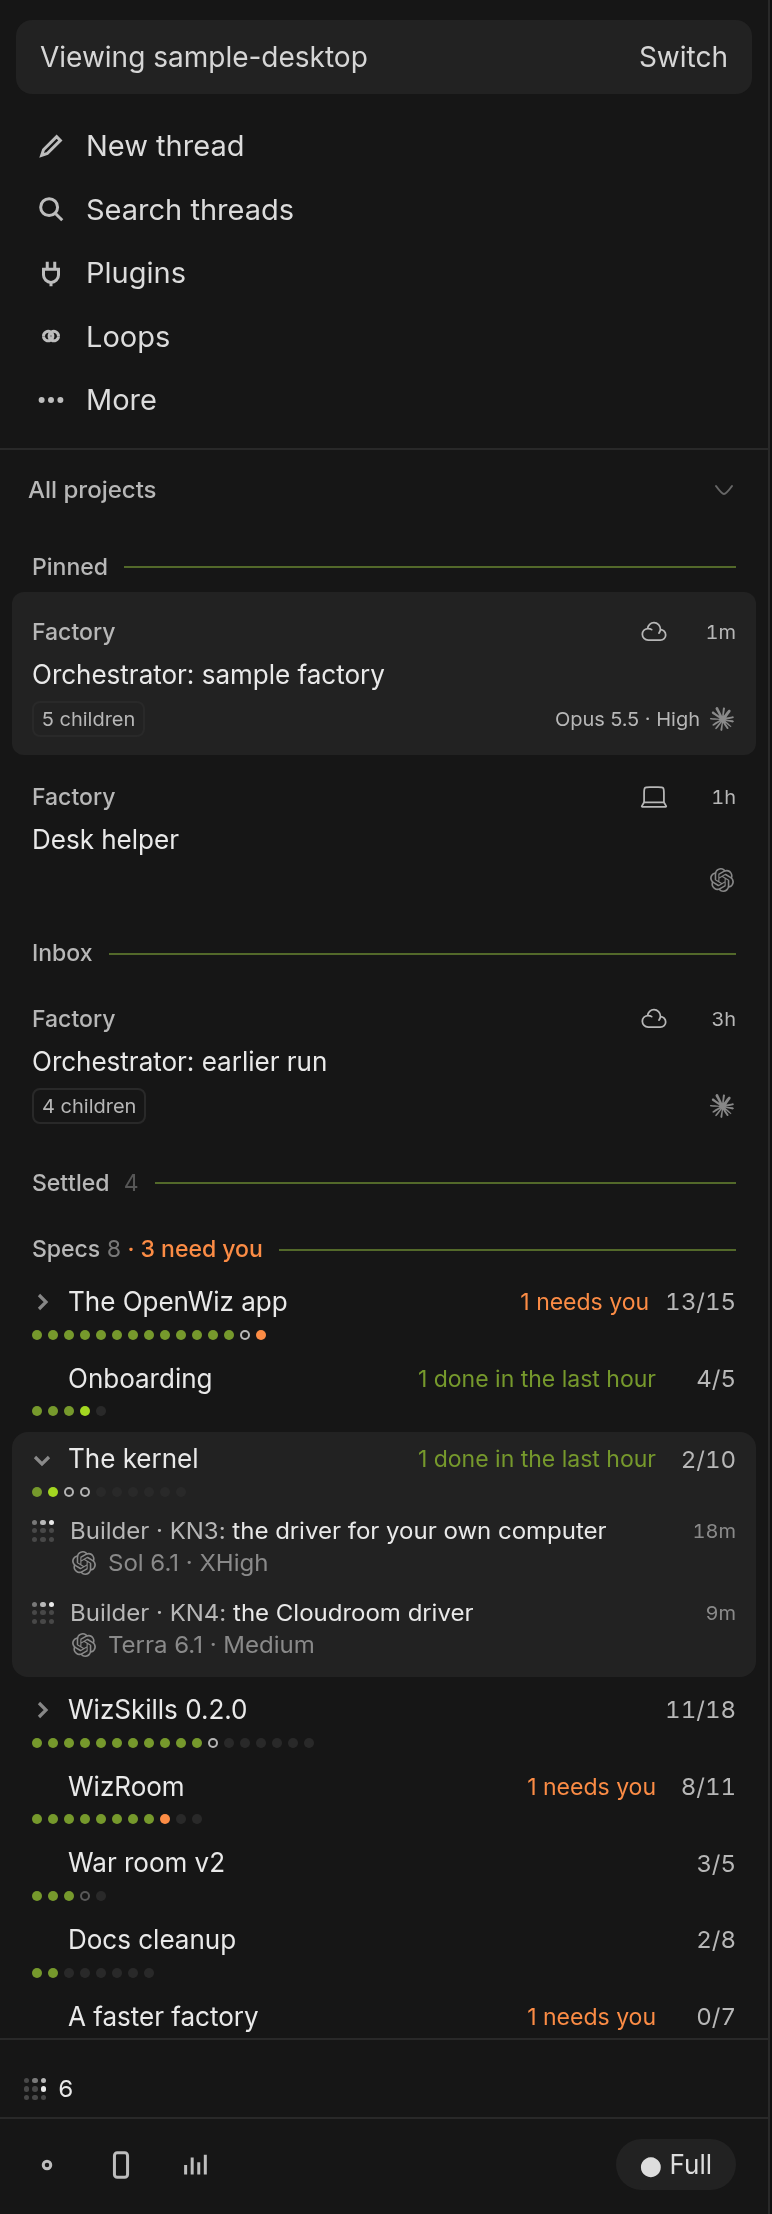
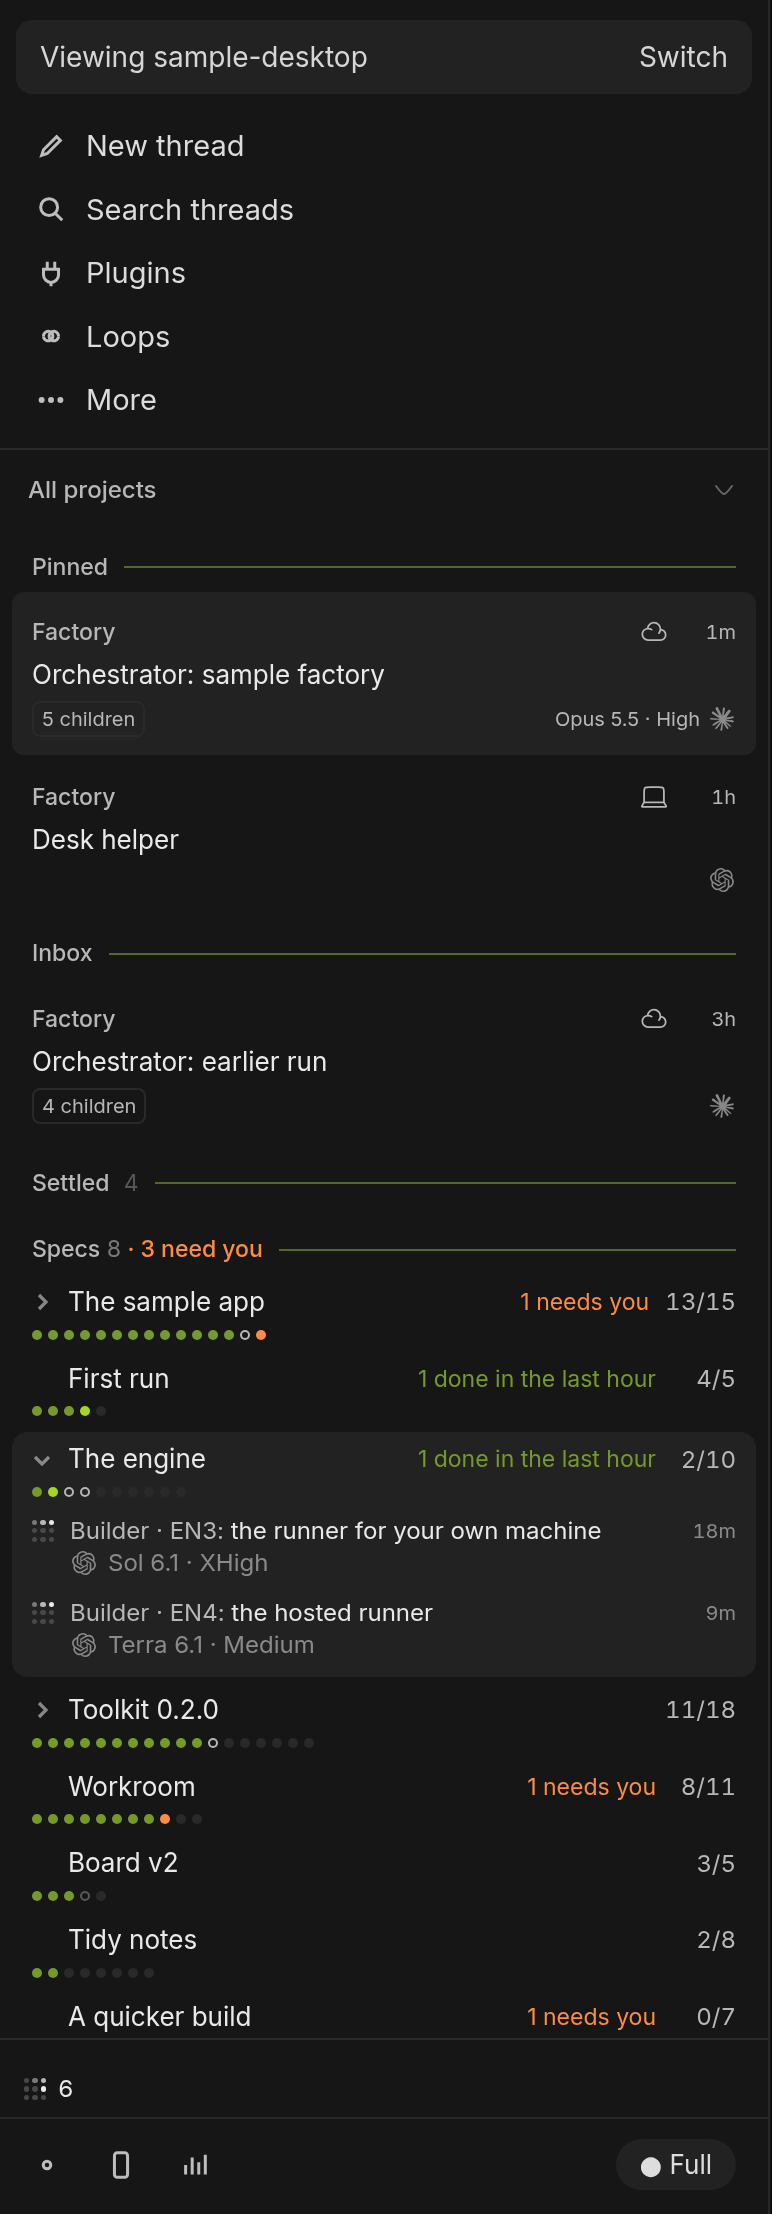
#116: README image re-rendered from the fully invented harness fixture, and an invented example code

diff --git a/wizbar/README.md b/wizbar/README.md
@@ -46,7 +46,7 @@ are in the [v0.3 sidebar contract](contracts/sidebar-v3.v1.md) and the
   and the children of `Fleet #<S>: …` belong to spec S (the fleet thread
   itself is not listed); the older `Role · CODE: …` form still matches. An
   agent row reads
-  `Builder · KN3:` dimmed, then the task, then its age; its second line is the
+  `Builder · EN3:` dimmed, then the task, then its age; its second line is the
   harness logo and the model and effort.
 - **Model and effort** in friendly words: `Opus 5.5 · High`, `Sol 6.1 · XHigh`,
   from the host's resolved options for the thread's latest turn. On cards they
